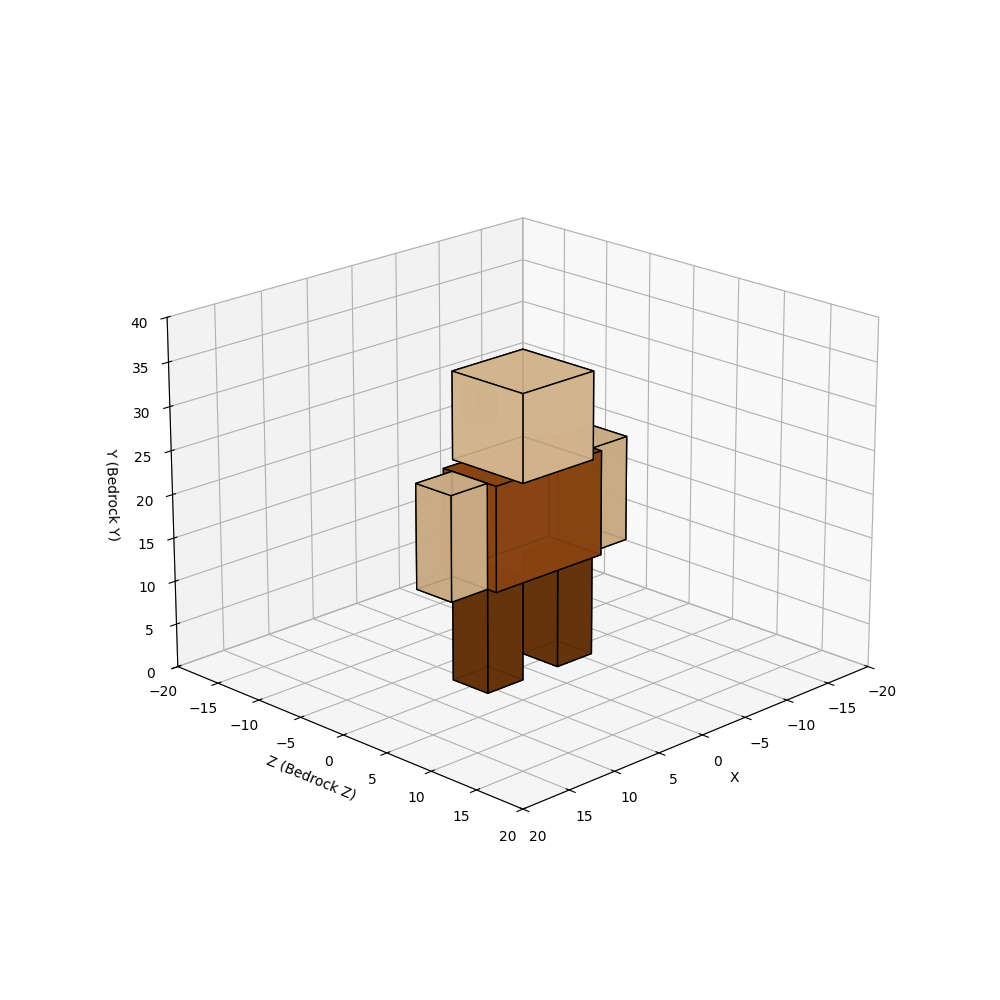
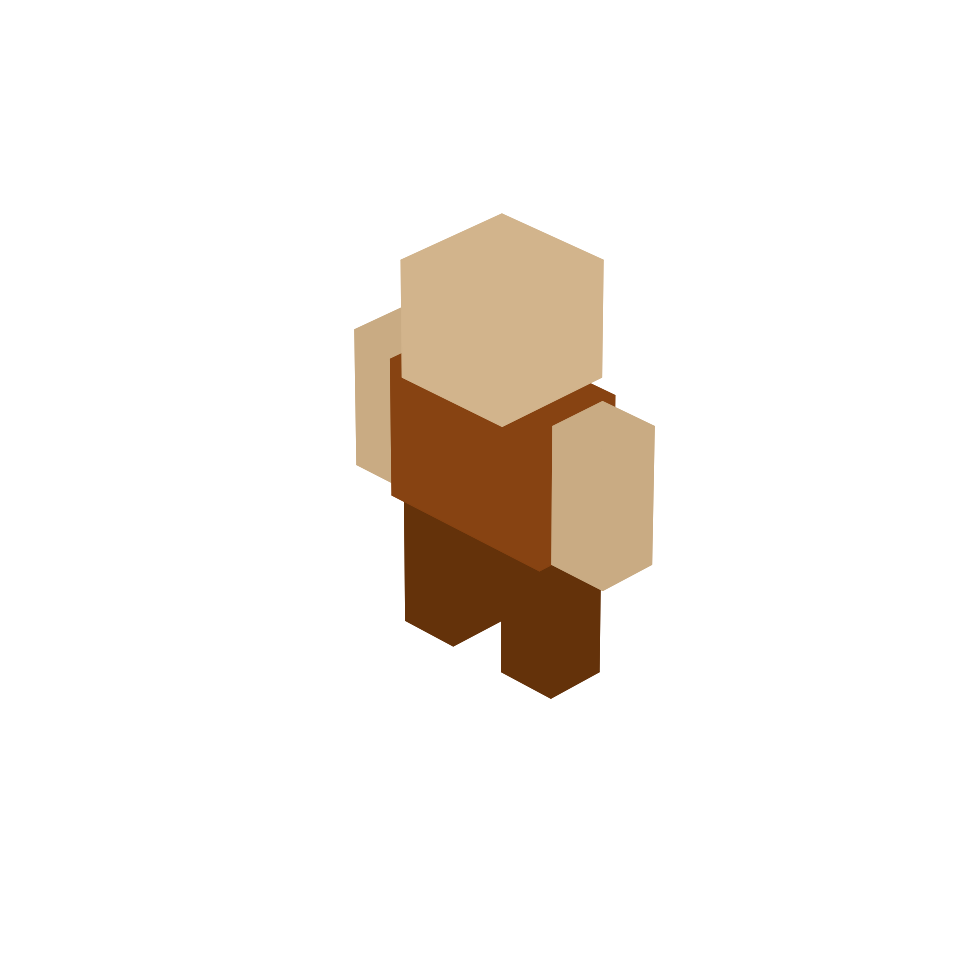
feat: Update Muscular Villager Addon with Professional Preview

diff --git a/muscular_villager_addon/scripts/render_preview.py b/muscular_villager_addon/scripts/render_preview.py
@@ -12,22 +12,17 @@ OUT_PATH = os.path.join(ADDON_DIR, "preview.png")
 
 def get_average_color(texture, uv, size):
     # uv is [u, v] in pixels. size is [w, h, d]
-    # In bedrock, box UV mapping is complex (unfolding).
-    # We will just sample a patch at uv[0], uv[1] of size roughly representative.
-    # UV in JSON is usually top-left of the texture box.
     u, v = uv
-    # Ensure bounds
     w, h = texture.size
     if u >= w: u = w - 1
     if v >= h: v = h - 1
 
-    # Sample a 4x4 patch or smaller
+    # Sample a small patch
     box = (int(u), int(v), int(min(u+4, w)), int(min(v+4, h)))
     try:
         region = texture.crop(box)
-        # resize to 1x1 to get average
         avg = region.resize((1, 1)).getpixel((0, 0))
-        return [x/255.0 for x in avg] # Normalize to 0-1
+        return [x/255.0 for x in avg]
     except:
         return [0.5, 0.5, 0.5, 1.0]
 
@@ -44,11 +39,14 @@ def render():
 
     texture = Image.open(TEX_PATH)
 
-    fig = plt.figure(figsize=(10, 10))
+    # Setup Figure
+    fig = plt.figure(figsize=(8, 8))
     ax = fig.add_subplot(111, projection='3d')
+    ax.set_axis_off() # Hide axes
+    ax.set_facecolor('white') # White background
+    fig.patch.set_facecolor('white')
 
     # Parse Geometry
-    # Looking for geometry.villager_muscle
     model = None
     for g in geo_data['minecraft:geometry']:
         if g['description']['identifier'] == 'geometry.villager_muscle':
@@ -61,21 +59,21 @@ def render():
 
     bones = model['bones']
 
-    # Store cubes to plot
-    # A cube is defined by origin and size.
+    # Calculate bounds to center the camera
+    min_x, max_x = 0, 0
+    min_y, max_y = 0, 0
+    min_z, max_z = 0, 0
 
-    # Set plot limits
-    ax.set_xlim(-20, 20)
-    ax.set_ylim(-20, 20) # Z in bedrock
-    ax.set_zlim(0, 40)   # Y in bedrock
-
-    ax.set_xlabel('X')
-    ax.set_ylabel('Z (Bedrock Z)')
-    ax.set_zlabel('Y (Bedrock Y)')
+    polys = []
 
     for bone in bones:
         if 'cubes' not in bone:
             continue
+
+        # Bone pivot can affect rotation but for simple villager model
+        # usually cubes are positioned absolutely or relative to pivot which is 0-based in some contexts.
+        # Bedrock geometry is tricky. The "origin" is usually absolute in model space.
+        # We will assume origin is absolute for this visualization.
 
         for cube in bone['cubes']:
             origin = cube['origin'] # [x, y, z]
@@ -85,13 +83,20 @@ def render():
             x, y, z = origin
             dx, dy, dz = size
 
-            # Matplotlib coordinates setup
-            # We map Bedrock [x, y, z] to Matplotlib axes.
-            # Usually Matplotlib Z is height. So Bedrock Y -> Plot Z.
-            # Bedrock Z -> Plot Y.
+            # Update bounds
+            min_x = min(min_x, x)
+            max_x = max(max_x, x + dx)
+            min_y = min(min_y, y)
+            max_y = max(max_y, y + dy)
+            min_z = min(min_z, z)
+            max_z = max(max_z, z + dz)
 
-            # Vertices of the cube
-            # origin is bottom-north-west (roughly)
+            # Matplotlib Coords:
+            # Bedrock: X=Right, Y=Up, Z=Forward (North)
+            # Matplotlib: X, Y, Z. usually Z is up.
+            # So Bedrock X -> Plot X
+            # Bedrock Y -> Plot Z
+            # Bedrock Z -> Plot Y
 
             # Corner points
             p = [
@@ -105,11 +110,11 @@ def render():
                 [x, z+dz, y+dy]
             ]
 
-            # Faces defined by indices
+            # Faces
             faces = [
                 [p[0], p[1], p[2], p[3]], # Bottom
                 [p[4], p[5], p[6], p[7]], # Top
-                [p[0], p[1], p[5], p[4]], # Front (ish)
+                [p[0], p[1], p[5], p[4]], # Front
                 [p[2], p[3], p[7], p[6]], # Back
                 [p[1], p[2], p[6], p[5]], # Right
                 [p[4], p[7], p[3], p[0]]  # Left
@@ -117,14 +122,29 @@ def render():
 
             color = get_average_color(texture, uv, size)
 
-            poly3d = Poly3DCollection(faces, linewidths=1, edgecolors='k', alpha=0.9)
+            # Alpha 1.0 for solid look
+            poly3d = Poly3DCollection(faces, linewidths=0.5, edgecolors='none', alpha=1.0)
             poly3d.set_facecolor(color)
+            poly3d.set_edgecolor(color) # Hide edges by making them same color
+            polys.append(poly3d)
             ax.add_collection3d(poly3d)
 
-    # Adjust view
-    ax.view_init(elev=20, azim=45)
+    # Set limits centered on the model
+    center_x = (min_x + max_x) / 2
+    center_y = (min_z + max_z) / 2 # Bedrock Z is Plot Y
+    center_z = (min_y + max_y) / 2 # Bedrock Y is Plot Z
 
-    plt.savefig(OUT_PATH)
+    max_range = max(max_x - min_x, max_z - min_z, max_y - min_y) / 2
+
+    ax.set_xlim(center_x - max_range, center_x + max_range)
+    ax.set_ylim(center_y - max_range, center_y + max_range)
+    ax.set_zlim(center_z - max_range, center_z + max_range)
+
+    # Isometric view
+    ax.view_init(elev=30, azim=-45)
+
+    # Save
+    plt.savefig(OUT_PATH, bbox_inches='tight', pad_inches=0.1, dpi=150)
     print(f"Preview saved to {OUT_PATH}")
 
 if __name__ == "__main__":
